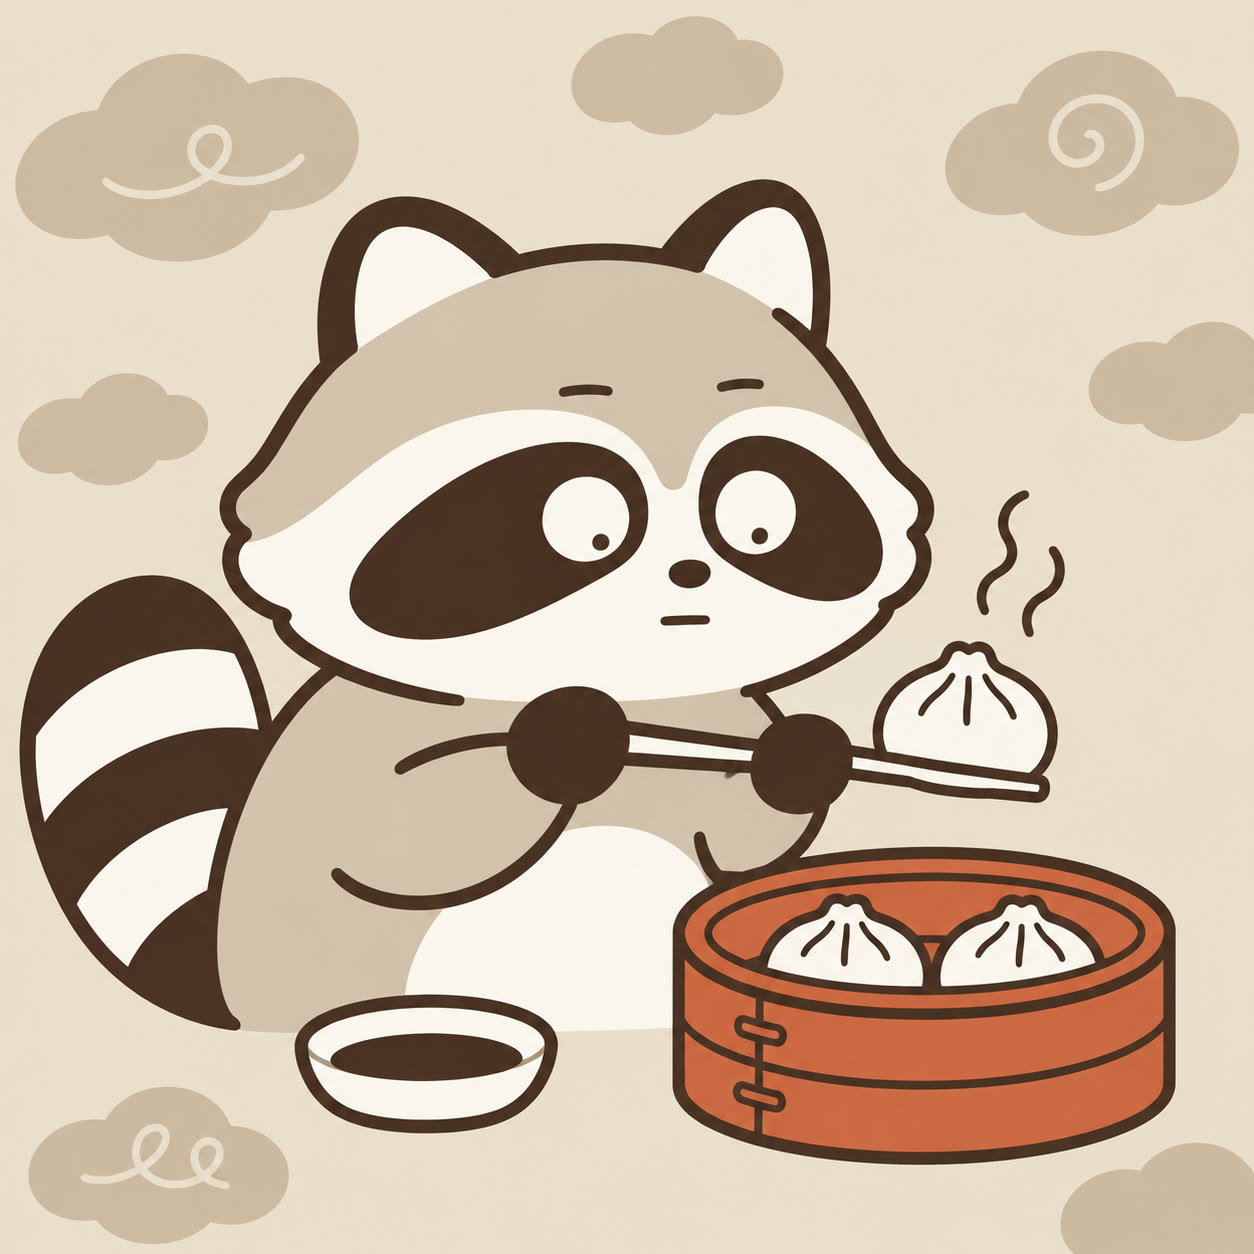
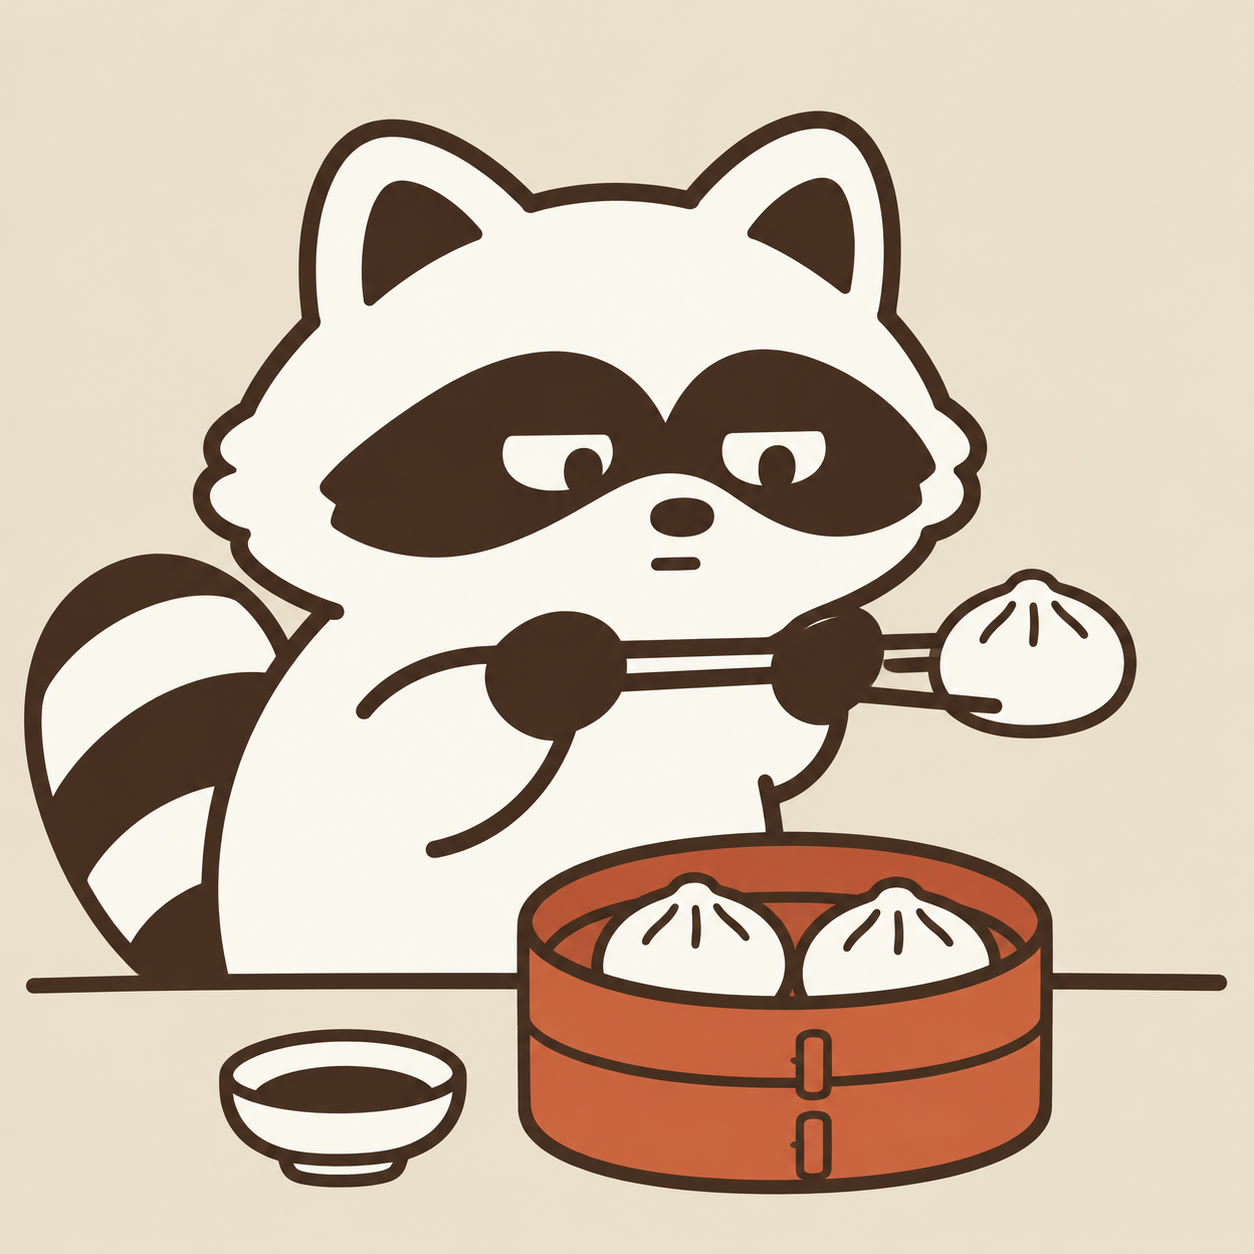
feat(akbun-draw): ink-moss 배경을 구름 무늬 없는 단색으로 변경

diff --git a/plugins/akbun-draw/skills/akbun-draw-ink-moss/scripts/moss_prompt.py b/plugins/akbun-draw/skills/akbun-draw-ink-moss/scripts/moss_prompt.py
@@ -70,11 +70,11 @@ def build(spec):
         f"SUBJECTS ({len(spec['subjects'])}): {subs}",
         props,
         f"ACCENT: only {spec['accent_on']} is colored {c['accent']}.",
-        f"COLOR PALETTE: use only these six colors: {colors}.",
+        f"COLOR PALETTE: use only these five colors: {colors}.",
         f"STYLE: {rules}",
         f"TEXT: {NO_TEXT}",
         "DO NOT: no humans, no photorealism, no 3D, no gradients or soft shading, no extra accent colors, "
-        "no detailed scenery, no existing mascots or brand characters, no watermark, no captions.",
+        "no clouds or background patterns, no detailed scenery, no existing mascots or brand characters, no watermark, no captions.",
     ])
 
 

diff --git a/docs/manual_draw.md b/docs/manual_draw.md
@@ -33,7 +33,7 @@
 | 개념 하나를 카드 한 장으로 정리하고 싶음 | [akbun-draw-sketchbook-card](../plugins/akbun-draw/skills/akbun-draw-sketchbook-card/SKILL.md) | 스파이럴 스케치북 카드 프롬프트 |
 | 여백 많은 조용한 일상 장면 그림이 필요함 | [akbun-draw-quiet-pencil](../plugins/akbun-draw/skills/akbun-draw-quiet-pencil/SKILL.md) | 크림 배경 연필 장면 프롬프트 |
 | 소품 가득한 아늑한 배경 속 동물 캐릭터 일상 장면이 필요함 | [akbun-draw-style-bori](../plugins/akbun-draw/skills/akbun-draw-style-bori/SKILL.md) | 갈색 손그림 선·셀 채색 장면 프롬프트(spec을 스크립트가 조립·채점) |
-| 굵은 잉크 선·단색 면으로 동물·사물의 엉뚱한 한 순간을 그리고 싶음 | [akbun-draw-ink-moss](../plugins/akbun-draw/skills/akbun-draw-ink-moss/SKILL.md) | 올리브 잉크 선·그늘 없는 단색·구름 무늬 배경·강조색 하나 그림 프롬프트(spec을 스크립트가 조립·채점) |
+| 굵은 잉크 선·단색 면으로 동물·사물의 엉뚱한 한 순간을 그리고 싶음 | [akbun-draw-ink-moss](../plugins/akbun-draw/skills/akbun-draw-ink-moss/SKILL.md) | 올리브 잉크 선·그늘 없는 단색·단색 배경·강조색 하나 그림 프롬프트(spec을 스크립트가 조립·채점) |
 | 흰 종이 여백이 넓은 펜 선·수채 칠 장면이 필요함 | [akbun-draw-illust-wash](../plugins/akbun-draw/skills/akbun-draw-illust-wash/SKILL.md) | 끊어 겹친 펜 선·옅은 수채 칠·무표정 동물 장면 프롬프트(spec을 스크립트가 조립·채점) |
 | 사람 없는 장면을 바랜 옛 필름 사진처럼 보여 주고 싶음 | [akbun-draw-faded-film](../plugins/akbun-draw/skills/akbun-draw-faded-film/SKILL.md) | 필름 입자·무른 초점·실제 광원·아날로그 사물 사진 프롬프트(spec을 스크립트가 조립·채점) |
 | 여행지 거리를 카메라 스냅 사진이나 짧은 반복 영상으로 보여 주고 싶음 | [akbun-draw-street-matte](../plugins/akbun-draw/skills/akbun-draw-street-matte/SKILL.md) | 무광 베이지·올리브 색 보정, 얼굴 없는 뒷모습 인물 거리 스냅 프롬프트와 2×2 시트를 이은 mp4(spec을 스크립트가 조립·채점) |

diff --git a/plugins/akbun-draw/skills/akbun-draw-ink-moss/SKILL.md b/plugins/akbun-draw/skills/akbun-draw-ink-moss/SKILL.md
@@ -1,6 +1,6 @@
 ---
 name: akbun-draw-ink-moss
-description: 굵고 매끈한 올리브 잉크 선, 그늘 없는 단색 면, 세이지 종이 위 뭉게구름 무늬 배경, 화면에 딱 하나만 칠하는 이끼 초록 강조색으로 동물·식물·사물의 조용하고 엉뚱한 한 순간을 그리는 이미지 생성 프롬프트 스타일 ink-moss. 모델은 spec(JSON)만 쓰고, 스크립트가 references의 스타일·팔레트·캔버스 라이브러리로 영어 프롬프트를 조립하고 채점한다. 사용자가 직접 호출할 때만 실행한다.
+description: 굵고 매끈한 올리브 잉크 선, 그늘 없는 단색 면, 무늬 없는 세이지 단색 배경, 화면에 딱 하나만 칠하는 이끼 초록 강조색으로 동물·식물·사물의 조용하고 엉뚱한 한 순간을 그리는 이미지 생성 프롬프트 스타일 ink-moss. 모델은 spec(JSON)만 쓰고, 스크립트가 references의 스타일·팔레트·캔버스 라이브러리로 영어 프롬프트를 조립하고 채점한다. 사용자가 직접 호출할 때만 실행한다.
 disable-model-invocation: true
 ---
 
@@ -70,7 +70,7 @@ cd moss-output/<작업명> && codex exec --skip-git-repo-check -s workspace-writ
 - 선이 순검정이 아니라 팔레트 ink 색이고, 굵기가 고르며 흔들리지 않는다.
 - 면에 그늘·그라데이션이 없다.
 - 강조색이 `accent_on` 하나에만 있다.
-- 배경이 종이색 바탕과 외곽선 없는 구름 덩어리뿐이다.
+- 배경이 종이색 한 가지 단색이고 구름·무늬가 없다.
 - 사람이 없고, 글자가 없다.
 - 알려진 캐릭터·마스코트와 닮지 않았다. 닮았으면 `subjects`의 생김새를 바꿔 build부터 다시 하고, 무엇을 바꿨는지 결과 보고에 적는다.
 
